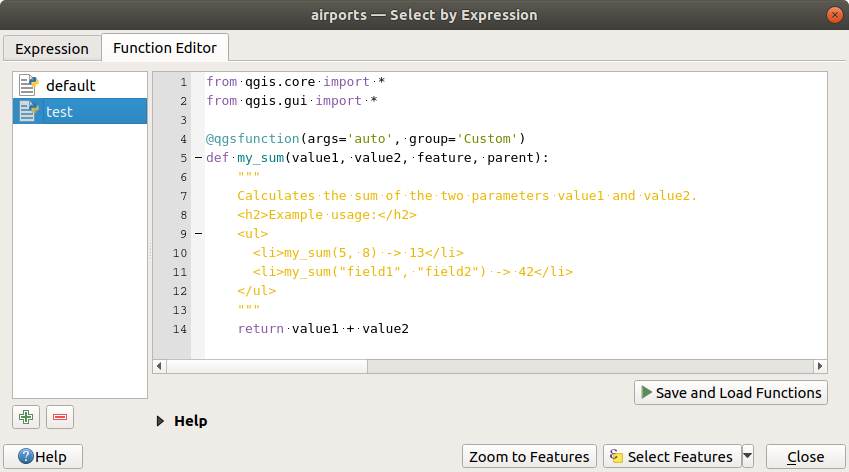
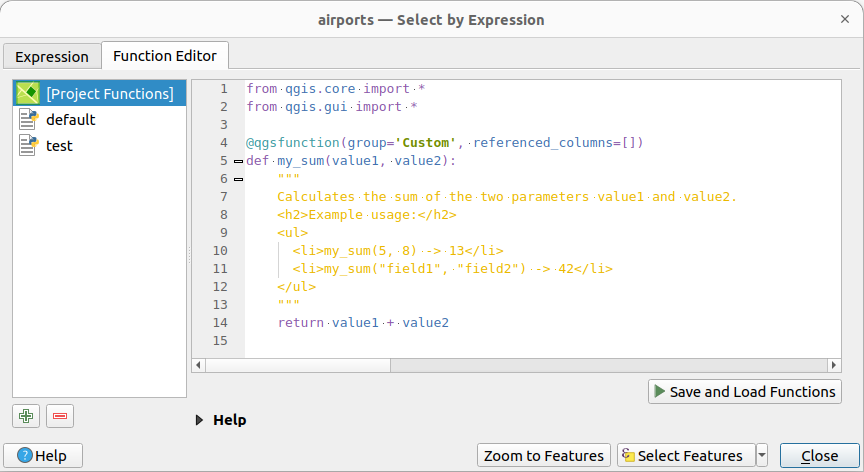
Update function editor section (fix #9258)

diff --git a/docs/user_manual/expressions/expression.rst b/docs/user_manual/expressions/expression.rst
@@ -335,12 +335,24 @@ particular needs that would not be covered by the predefined functions.
 To create a new function:
 
 #. Press the |symbologyAdd| :sup:`New File` button.
-#. Enter a name to use in the form that pops up and press :guilabel:`OK`.
+#. Select where to store the new function. You can choose to save it either in a
+   Function file or in the current QGIS project file.
 
-   A new item of the name you provide is added in the left panel of the
-   :guilabel:`Function Editor` tab; this is a Python :file:`.py` file based on
-   QGIS template file and stored in the :file:`/python/expressions` folder
-   under the active :ref:`user profile <user_profiles>` directory.
+.. _figure_expression_function_add_function_file:
+
+.. figure:: img/function_editor_add_function_file.png
+   :align: center
+
+   The Add Function File dialog
+
+   If you select Function file, you need to enter a name for the Python :file:`.py`
+   file, which is based on a QGIS template file and is stored in the :file:`/python/expressions`
+   folder under the active :ref:`user profile <user_profiles>` directory.
+
+   If you select Project functions, the new function is stored in the project file.
+
+   A new item is added in the left panel of the :guilabel:`Function Editor` tab.
+
 #. The right panel displays the content of the file: a python script template.
    Update the code and its help according to your needs.
 #. Press the |start| :guilabel:`Save and Load Functions` button.
@@ -352,20 +364,29 @@ To create a new function:
    Functions` button to make them available in the file, hence in any expression
    tab.
 
-Custom Python functions are stored under the user profile directory, meaning that at
-each QGIS startup, it will auto load all the functions defined with the current user
-profile. Be aware that new functions are only saved in the :file:`/python/expressions`
-folder and not in the project file.
+Custom Python functions stored as Function files are stored under the user profile
+directory, meaning that at each QGIS startup, it will auto load all the functions
+defined with the current user profile. Be aware that new functions are only saved in
+the :file:`/python/expressions` folder and not in the project file.
 If you share a project that uses one of your custom functions you will need to also
 share the :file:`.py` file in the :file:`/python/expressions` folder.
+
+On the other hand, custom Python functions stored as Project functions can be easily
+shared by sharing the project file where they were saved. When opening a project
+with project functions, QGIS loads them, ignores them, or asks the user before
+loading them, depending on the :ref:`General settings <general_options>`.
 
 To delete a custom function:
 
 #. Enable the :guilabel:`Function Editor` tab
 #. Select the function in the list
 #. Press the |symbologyRemove| :sup:`Remove selected function`. The function is
-   removed from the list and the corresponding ``.py`` file deleted from
-   the user profile folder.
+   removed from the list and, depending on the storage, the corresponding ``.py``
+   file is deleted from the user profile folder, or the Python functions are removed
+   from the project file.
+
+When a project file with Project functions is closed, the corresponding Project
+functions are unloaded and are no longer available in the QGIS session.
 
 **Example**
 
